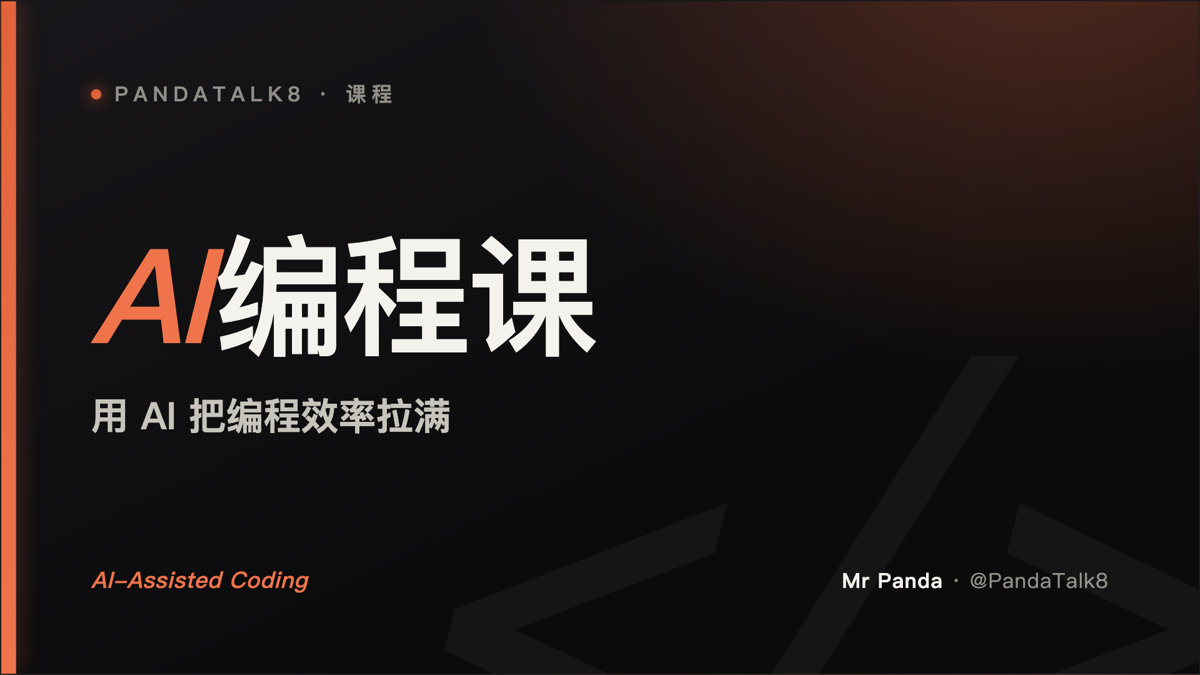
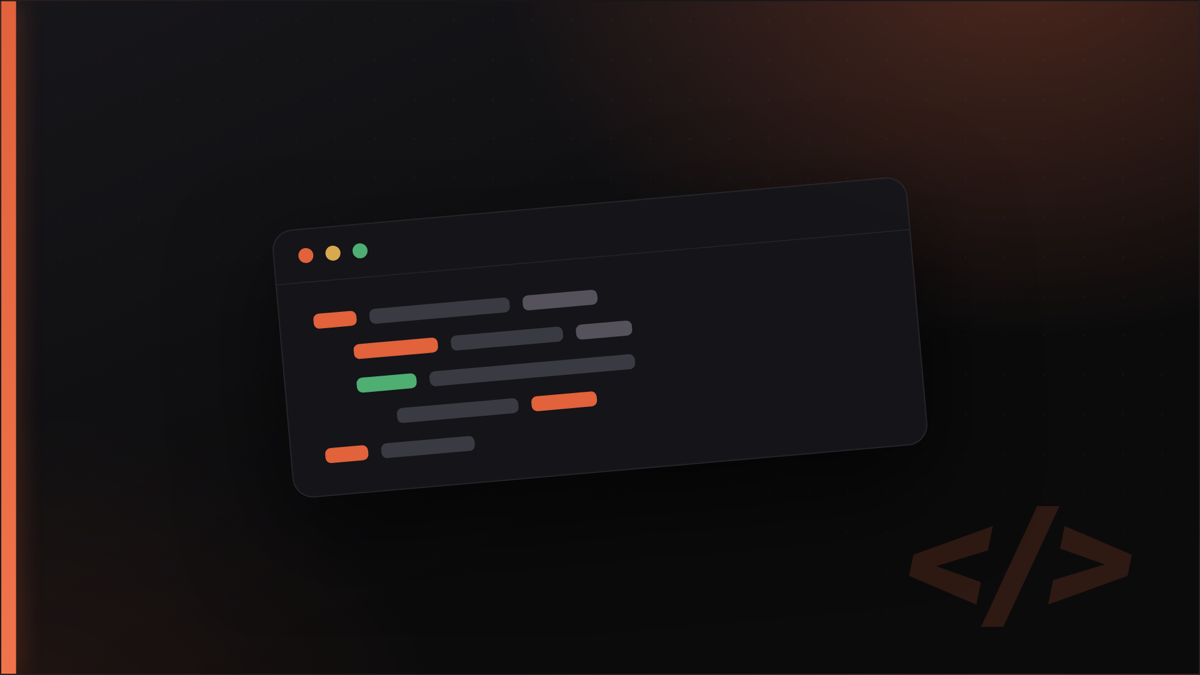
Make course covers graphic-only and center the course grid
- Regenerate AI 编程课 / Prompt 工程课 covers as text-free graphics (centered
  code-window / terminal motifs) so the title isn't duplicated with the card
  body
- Center the course grid (fixed-width cards) instead of left-aligning when
  there are only a couple of courses

diff --git a/app/globals.css b/app/globals.css
@@ -2954,6 +2954,12 @@ nav.primary .nav-rss::after {
   grid-template-columns: repeat(auto-fill, minmax(280px, 1fr));
   gap: var(--sp-5);
 }
+/* Courses: fixed-width cards centered in the row (avoids left-aligned gap
+   when there are only a couple of courses). */
+.course-grid {
+  grid-template-columns: repeat(auto-fill, minmax(300px, 360px));
+  justify-content: center;
+}
 .offer-card,
 .course-card {
   display: flex;
